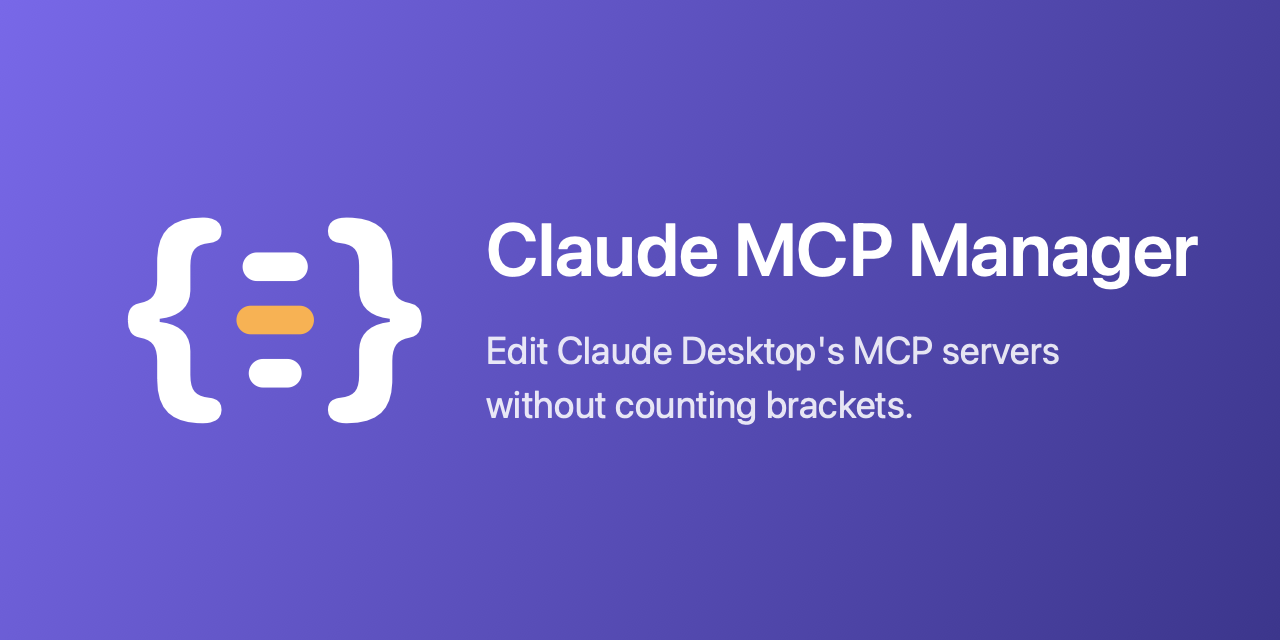
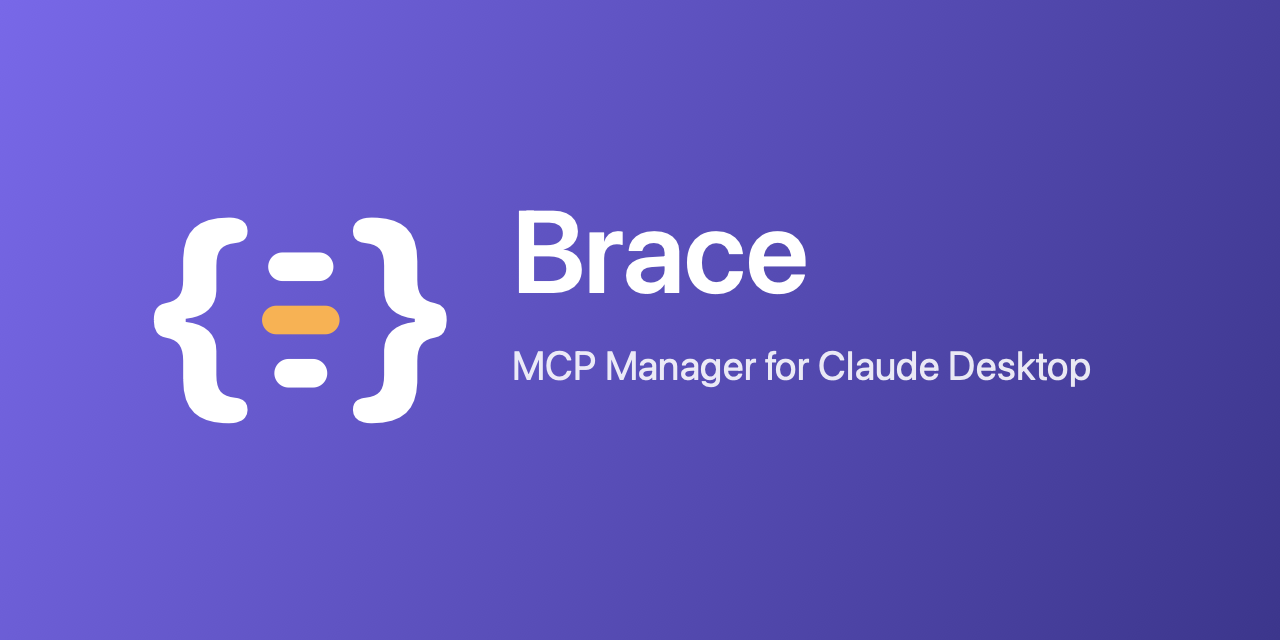
Rename the app to Brace
The old name led with someone else's trademark, so a third-party tool read as an
official one. Brace says what the icon already showed: the braces you no longer
have to count. Subtitle everywhere is "MCP Manager for Claude Desktop", which
keeps the descriptive words people actually search for.

Renamed throughout: bundle identifier, window and menu titles, the About box,
the client name sent in the MCP handshake, the disabled-servers sidecar comment,
and the configuration-directory override, which is now BRACE_CONFIG_DIR.

The social card and all four screenshots are regenerated — every one of them
showed the old name in the title bar.

macOS treats this as a new application because the identifier changed, so anyone
with the old build should delete it rather than end up with both. Configuration
and backups are untouched; they never lived inside the app.

Changed region(s): [[0.0938, 0.3125, 0.375, 0.6875], [0.375, 0.3125, 0.9375, 0.4688], [0.375, 0.5, 0.875, 0.6562]]

diff --git a/Sources/ConfigStore.swift b/Sources/ConfigStore.swift
@@ -21,11 +21,11 @@ final class ConfigStore: ObservableObject {
 
     /// Where Claude Desktop keeps its configuration.
     ///
-    /// `CLAUDE_MCP_MANAGER_CONFIG_DIR` redirects this, which is how the test suite
+    /// `BRACE_CONFIG_DIR` redirects this, which is how the test suite
     /// and the documentation screenshots run against sample data instead of a real
     /// config. It only changes which directory is edited; nothing else.
     nonisolated static var claudeSupportDirectory: URL {
-        if let override = ProcessInfo.processInfo.environment["CLAUDE_MCP_MANAGER_CONFIG_DIR"],
+        if let override = ProcessInfo.processInfo.environment["BRACE_CONFIG_DIR"],
            !override.isEmpty {
             return URL(fileURLWithPath: (override as NSString).expandingTildeInPath)
         }
@@ -144,7 +144,7 @@ final class ConfigStore: ObservableObject {
                 try? FileManager.default.removeItem(at: disabledURL)
             } else {
                 let sidecar = JSONValue.object([
-                    (key: "_comment", value: .string("Servers turned off in Claude MCP Manager. Claude Desktop never reads this file.")),
+                    (key: "_comment", value: .string("Servers turned off in Brace. Claude Desktop never reads this file.")),
                     (key: "mcpServers", value: .object(disabledPairs)),
                 ])
                 try writeAtomically(sidecar.serialized() + "\n", to: disabledURL)

diff --git a/Resources/MakeIcon.swift b/Resources/MakeIcon.swift
@@ -176,7 +176,7 @@ func drawSocialCard(into context: CGContext, width: Double, height: Double) {
 
     // The mark, drawn at the same proportions as the icon.
     let markSize = height * 0.52
-    let markCentre = CGPoint(x: width * 0.215, y: height * 0.5)
+    let markCentre = CGPoint(x: width * 0.235, y: height * 0.5)
     let braceSize = markSize * 0.72
     var braceFont = NSFont.systemFont(ofSize: braceSize, weight: .bold)
     if let rounded = braceFont.fontDescriptor.withDesign(.rounded) {
@@ -211,12 +211,11 @@ func drawSocialCard(into context: CGContext, width: Double, height: Double) {
             .foregroundColor: NSColor(cgColor: color(255, 255, 255, alpha))!,
         ]
         NSAttributedString(string: text, attributes: attributes)
-            .draw(at: CGPoint(x: width * 0.38, y: y))
+            .draw(at: CGPoint(x: width * 0.40, y: y))
     }
 
-    draw("Claude MCP Manager", size: 74, weight: .semibold, alpha: 1, y: height * 0.545)
-    draw("Edit Claude Desktop's MCP servers", size: 38, weight: .regular, alpha: 0.86, y: height * 0.42)
-    draw("without counting brackets.", size: 38, weight: .regular, alpha: 0.86, y: height * 0.335)
+    draw("Brace", size: 116, weight: .semibold, alpha: 1, y: height * 0.505)
+    draw("MCP Manager for Claude Desktop", size: 40, weight: .regular, alpha: 0.88, y: height * 0.395)
 
     NSGraphicsContext.restoreGraphicsState()
 }

diff --git a/Sources/ServerTester.swift b/Sources/ServerTester.swift
@@ -139,7 +139,7 @@ enum ServerTester {
             try? input.fileHandleForWriting.write(contentsOf: data)
         }
 
-        send(#"{"jsonrpc":"2.0","id":1,"method":"initialize","params":{"protocolVersion":"2025-06-18","capabilities":{},"clientInfo":{"name":"Claude MCP Manager","version":"1.0"}}}"#)
+        send(#"{"jsonrpc":"2.0","id":1,"method":"initialize","params":{"protocolVersion":"2025-06-18","capabilities":{},"clientInfo":{"name":"Brace","version":"1.0"}}}"#)
 
         // Read stdout through a readability handler rather than polling.
         // Polling meant a timed-out read left a thread still blocked on the pipe;
@@ -342,7 +342,7 @@ enum ServerTester {
         for pair in server.headers where !pair.key.isEmpty {
             request.setValue(pair.value, forHTTPHeaderField: pair.key)
         }
-        request.httpBody = Data(#"{"jsonrpc":"2.0","id":1,"method":"initialize","params":{"protocolVersion":"2025-06-18","capabilities":{},"clientInfo":{"name":"Claude MCP Manager","version":"1.0"}}}"#.utf8)
+        request.httpBody = Data(#"{"jsonrpc":"2.0","id":1,"method":"initialize","params":{"protocolVersion":"2025-06-18","capabilities":{},"clientInfo":{"name":"Brace","version":"1.0"}}}"#.utf8)
 
         do {
             onProgress(TestProgress(stage: "Sending the MCP handshake…", lastLine: nil, elapsed: Date().timeIntervalSince(started)))

diff --git a/Sources/App.swift b/Sources/App.swift
@@ -12,20 +12,20 @@ struct ClaudeMCPManagerApp: App {
         .commands {
             CommandGroup(replacing: .newItem) {}
             CommandGroup(replacing: .appInfo) {
-                OpenWindowButton(title: "About Claude MCP Manager", windowID: AboutWindow.id)
+                OpenWindowButton(title: "About Brace", windowID: AboutWindow.id)
             }
             CommandGroup(replacing: .help) {
-                OpenWindowButton(title: "Claude MCP Manager Help", windowID: HelpWindow.id)
+                OpenWindowButton(title: "Brace Help", windowID: HelpWindow.id)
                     .keyboardShortcut("?", modifiers: .command)
             }
         }
 
-        Window("Claude MCP Manager Help", id: HelpWindow.id) {
+        Window("Brace Help", id: HelpWindow.id) {
             HelpView()
         }
         .defaultSize(width: 900, height: 680)
 
-        Window("About Claude MCP Manager", id: AboutWindow.id) {
+        Window("About Brace", id: AboutWindow.id) {
             AboutView()
         }
         .windowResizability(.contentSize)

diff --git a/Sources/AboutView.swift b/Sources/AboutView.swift
@@ -18,14 +18,14 @@ struct AboutView: View {
                 }
 
                 VStack(spacing: 3) {
-                    Text("Claude MCP Manager")
+                    Text("Brace")
                         .font(.title2.weight(.semibold))
                     Text("Version \(version)")
                         .font(.callout)
                         .foregroundStyle(.secondary)
                 }
 
-                Text("An editor for Claude Desktop's MCP servers.")
+                Text("MCP Manager for Claude Desktop")
                     .font(.callout)
                     .foregroundStyle(.secondary)
                     .multilineTextAlignment(.center)

diff --git a/Tests/main.swift b/Tests/main.swift
@@ -708,7 +708,7 @@ func updateSuite() {
     check("your own version is never included", !shown(runningOn: "1.1.0").contains("1.1.0"))
 
     check("repository url", UpdateChecker.repositoryURL.absoluteString
-          == "https://github.com/brandonee916/claude-mcp-manager")
+          == "https://github.com/brandonee916/brace")
 
     // Release notes are Markdown, rendered by the same parser as the guide.
     let notes = HelpDocument.parse("""

diff --git a/Sources/UpdateChecker.swift b/Sources/UpdateChecker.swift
@@ -26,7 +26,7 @@ enum UpdateError: LocalizedError {
 }
 
 enum UpdateChecker {
-    static let repository = "brandonee916/claude-mcp-manager"
+    static let repository = "brandonee916/brace"
 
     static var repositoryURL: URL {
         URL(string: "https://github.com/\(repository)")!

diff --git a/README.md b/README.md
@@ -1,15 +1,16 @@
-# Claude MCP Manager
+# Brace
 
 <img src="Resources/AppIcon.png" alt="" width="128" align="right">
 
-A native macOS app for managing Claude Desktop's MCP servers, so you never have
-to count brackets in `claude_desktop_config.json` again.
+**MCP Manager for Claude Desktop.** A native macOS app for managing your MCP
+servers, so you never have to count brackets in `claude_desktop_config.json`
+again.
 
 ![The app editing a server, with its arguments and environment variables](docs/server-editing.png)
 
 This file is also the app's built-in guide: the app renders it directly, so there's
 only one copy to keep current. Open it from the **?** button in the toolbar, from
-**Help → Claude MCP Manager Help**, or with **⌘?**. `CHANGELOG.md` appears there
+**Help → Brace Help**, or with **⌘?**. `CHANGELOG.md` appears there
 too, under **Release Notes** — and `build.sh` reads the app's version number out of
 its newest heading, so releasing means editing one file.
 
@@ -22,7 +23,7 @@ package manager, no network access.
 ./build.sh --install
 ```
 
-That builds `Claude MCP Manager.app` and copies it into `/Applications`. Drop the
+That builds `Brace.app` and copies it into `/Applications`. Drop the
 `--install` to leave it in `./build` instead.
 
 ## What it does

diff --git a/CHANGELOG.md b/CHANGELOG.md
@@ -1,5 +1,24 @@
 # Release Notes
 
+## 2.0.0 — 2026-09-03
+
+**The app is now called Brace** — MCP Manager for Claude Desktop.
+
+The old name led with someone else's trademark, which made a third-party tool
+read as an official one. Brace says what the icon already showed: the braces you
+no longer have to count.
+
+- Nothing about how it works has changed.
+- macOS treats this as a new application, because the bundle identifier changed
+  with the name. If you installed the old one, delete `Claude MCP Manager.app`
+  from Applications — otherwise you'll have both. Your Claude Desktop
+  configuration and your backups are untouched either way; they never lived
+  inside the app.
+- Two settings reset to their defaults, since they were stored against the old
+  identifier: how many backups to keep, and when updates were last checked.
+- The environment variable for pointing at a different configuration directory is
+  now `BRACE_CONFIG_DIR`.
+
 ## 1.3.0 — 2026-09-03
 
 - **What's new** now shows every release you skipped, not just the newest one. On

diff --git a/docs/README.md b/docs/README.md
@@ -6,10 +6,10 @@ the servers and credentials shown here are invented.
 To reproduce, point the app at a directory holding that file:
 
 ```bash
-CLAUDE_MCP_MANAGER_CONFIG_DIR=/tmp/demo open -n "build/Claude MCP Manager.app"
+BRACE_CONFIG_DIR=/tmp/demo open -n "build/Brace.app"
 ```
 
-`CLAUDE_MCP_MANAGER_CONFIG_DIR` only changes which directory the app reads and
+`BRACE_CONFIG_DIR` only changes which directory the app reads and
 writes; everything else behaves normally.
 
 ## Social preview
